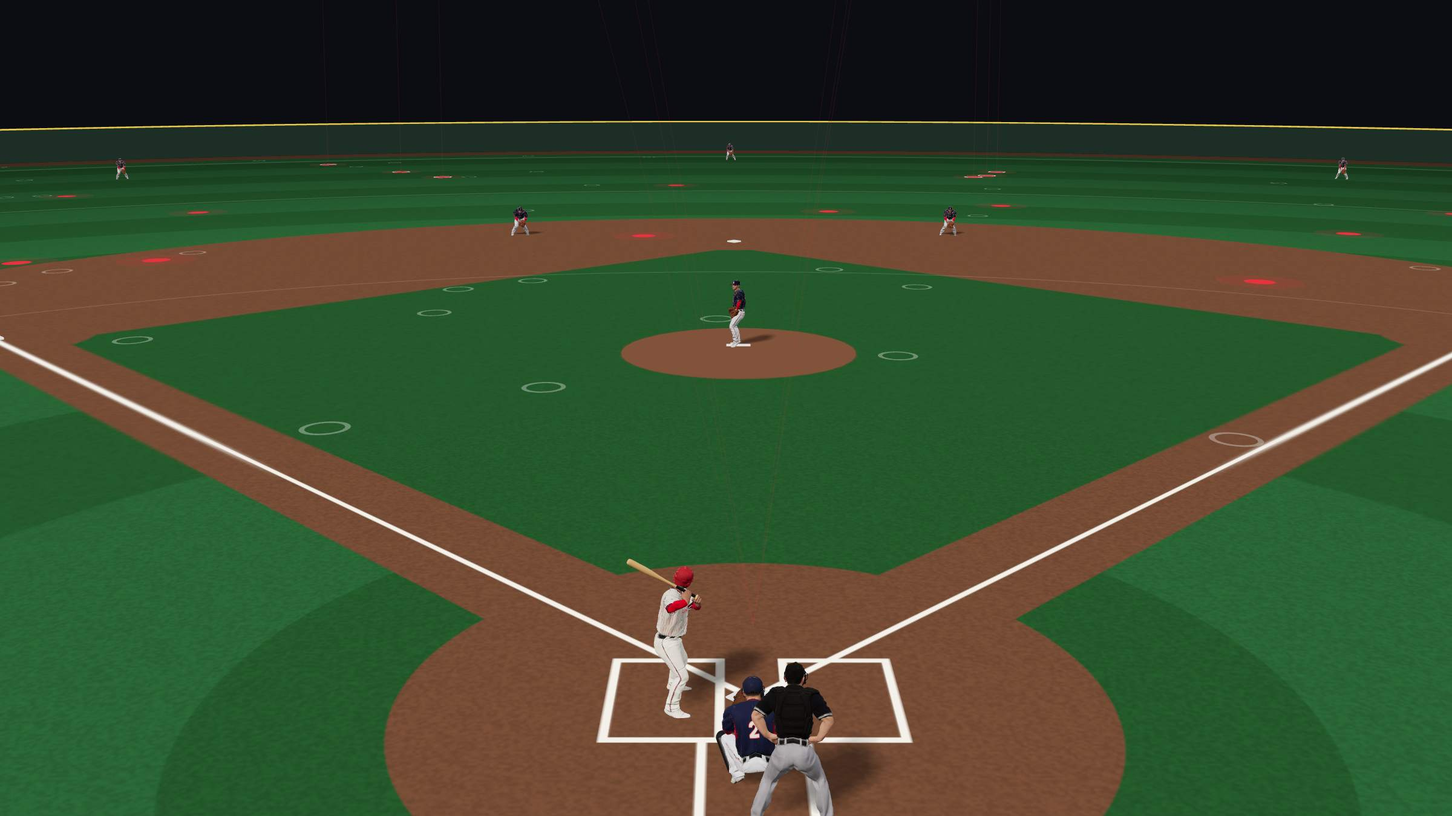
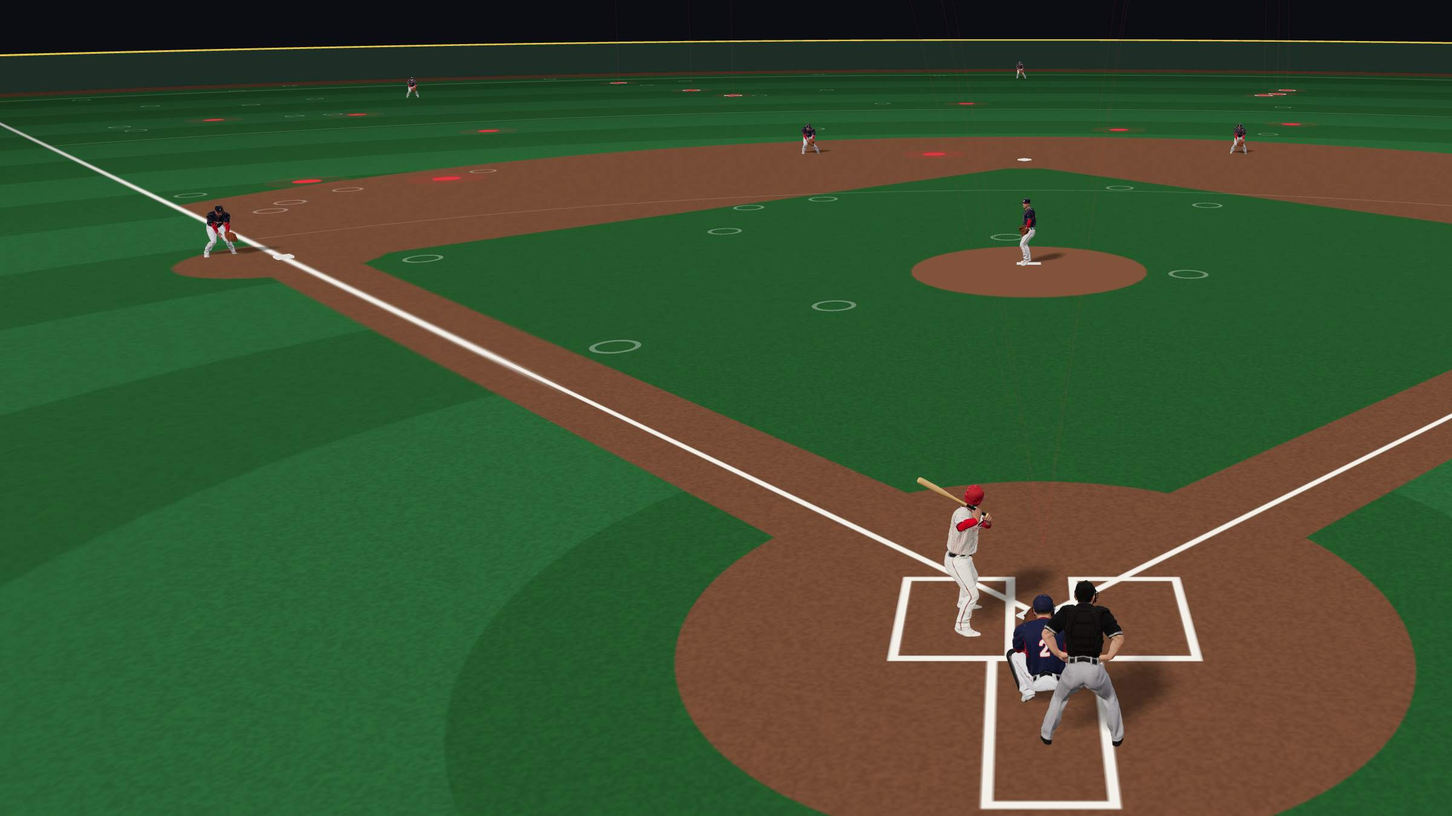
랜딩 디자인 다듬기: 첫 화면 선수를 글 밖으로, 숫자 띠 여백 버그, 필드 칸 정렬, 맨 아래 배경
- 첫 화면: 3D가 페이지 CSS의 --shift(렌즈 이동)·--zoom을 읽는다. 데스크톱은 홈 플레이트를
  글 오른쪽에 두고(--shift .2 .1) 숫자 카드를 글 아래 한 줄로. 폰·태블릿은 3D를 위쪽 띠로,
  글·버튼을 그 아래로(--zoom 1.3). 타자·포수·심판이 더 이상 제목·버튼·카드에 가리지 않는다.
- 숫자 띠: 칸 여백 규칙(.ticker div)이 감싸는 .wrap에도 걸려 양옆 여백이 0이던 버그.
- 필드 칸: 아래 라벨을 본문 칸에 맞추고, 폰에서 설명과 필드 사이 빈 공간을 줄임.
- 맨 아래 배경: 선수가 잘리지 않게 위치·그림자 조정, 폰은 선수를 버튼 아래로.
- 코스별 타율 칸에 안타/타수(15타석 샘플이라 .000·1.000이 많은 이유), QR 태그 2×2,
  한글 라벨의 넓은 자간 정리.
- 정지 그림 4장 재촬영. 정지 그림↔3D 첫 프레임 평균 픽셀차 데스크톱 1.2, 폰 1.1. ?v=3.

diff --git a/landing.html b/landing.html
@@ -62,24 +62,27 @@
   /* the element sets position / width / height / aspect-ratio inline, so these win with !important */
   .hero spray-play, .live spray-play { position: absolute !important; left: 0; right: 0; top: 0; bottom: 0; width: auto !important; height: auto !important; min-height: 0 !important; aspect-ratio: auto !important; }
   .hero spray-play > div { display: none !important; }                       /* its own labels: the hero has its own */
-  .live spray-play { left: 32px; right: 32px; top: 200px; bottom: 48px; }   /* the field starts under the heading */
+  .live spray-play { left: max(32px, calc((100% - var(--max)) / 2 + 32px)); right: max(32px, calc((100% - var(--max)) / 2 + 32px)); top: 200px; bottom: 48px; }   /* under the heading, in the content column */
   .live spray-play > div { color: #fff !important; font-size: 14px !important; }   /* phase · live counter · landing tag, in white */
   .hero .shade, .live .shade { pointer-events: none; }
   .hero .wrap > div, .live .wrap > * { pointer-events: none; } .hero .wrap a, .live .wrap a { pointer-events: auto; }
-  .hero .shade { position: absolute; inset: 0; background: linear-gradient(90deg, rgba(11,13,18,.92) 0%, rgba(11,13,18,.72) 38%, rgba(11,13,18,.15) 70%, rgba(11,13,18,.05) 100%), linear-gradient(180deg, rgba(11,13,18,.3) 0%, transparent 30%, rgba(11,13,18,.9) 100%); }
-  .hero .wrap { position: relative; width: 100%; padding-bottom: 72px; display: grid; grid-template-columns: minmax(0, 640px) 1fr; align-items: end; gap: 40px; }
+  .hero spray-play { --shift: .2 .1; }                                          /* lens shift: home plate to the right of the text, feet above the fold */
+  .hero .shade { position: absolute; inset: 0; background: linear-gradient(90deg, rgba(11,13,18,.92) 0%, rgba(11,13,18,.7) 36%, rgba(11,13,18,.1) 58%, transparent 72%), linear-gradient(180deg, rgba(11,13,18,.3) 0%, transparent 28%, transparent 62%, rgba(11,13,18,.85) 100%); }
+  .hero .wrap { position: relative; width: 100%; padding-bottom: 64px; }
+  .hero .wrap > div { max-width: 640px; }
   h1 { margin-top: 14px; font-size: 72px; line-height: 1.04; letter-spacing: -.04em; font-weight: 800; }
   .lead { margin-top: 20px; font-size: 18px; color: var(--fg-2); max-width: 30em; }
   .cta { margin-top: 30px; display: flex; gap: 12px; align-items: center; flex-wrap: wrap; } .cta small { margin-left: 8px; font-size: 13px; color: var(--fg-3); }
-  .chips { position: relative; display: flex; flex-direction: column; gap: 12px; align-items: flex-end; }
-  .chip { padding: 14px 18px; border-radius: 10px; background: rgba(255,255,255,.1); border: 1px solid var(--line); backdrop-filter: blur(16px); min-width: 190px; }
-  .chip span { display: block; font-size: 11px; font-weight: 800; letter-spacing: .14em; color: var(--fg-3); } .chip b { display: block; margin-top: 2px; font-size: 34px; font-weight: 800; line-height: 1; } .chip b em { font-style: normal; color: var(--red-2); }
+  .chips { margin-top: 32px; display: flex; gap: 10px; }
+  .chip { flex: 1 1 0; min-width: 0; padding: 12px 16px; border-radius: 8px; background: rgba(255,255,255,.07); border: 1px solid var(--line); backdrop-filter: blur(16px); }
+  .chip:last-child { flex-grow: 1.5; }
+  .chip span { display: block; font-size: 11px; font-weight: 800; letter-spacing: .14em; color: var(--fg-3); white-space: nowrap; } .chip b { display: block; margin-top: 4px; font-size: 26px; font-weight: 800; line-height: 1; white-space: nowrap; } .chip b em { font-style: normal; color: var(--red-2); }
   .bar { margin-top: 8px; height: 6px; border-radius: 3px; display: flex; overflow: hidden; background: rgba(255,255,255,.14); } .bar i { display: block; height: 100%; }
 
   /* ticker */
   .ticker { border-top: 1px solid var(--line); border-bottom: 1px solid var(--line); background: var(--ink); }
   .ticker .wrap { display: grid; grid-template-columns: repeat(4, 1fr); }
-  .ticker div { padding: 26px 24px 26px 0; border-right: 1px solid var(--line); } .ticker div + div { padding-left: 24px; } .ticker div:last-child { border-right: 0; }
+  .ticker .wrap > div { padding: 26px 24px 26px 0; border-right: 1px solid var(--line); } .ticker .wrap > div + div { padding-left: 24px; } .ticker .wrap > div:last-child { border-right: 0; }
   .ticker b { display: block; font-size: 24px; font-weight: 800; } .ticker span { display: block; margin-top: 4px; font-size: 13px; color: var(--fg-3); }
 
   /* sections */
@@ -92,7 +95,7 @@
   /* how */
   .trio { margin-top: 56px; display: grid; grid-template-columns: repeat(3, 1fr); gap: 24px; }
   .card { background: var(--paper-2); border: 1px solid var(--pl); border-radius: var(--r); padding: 28px 28px 0; overflow: hidden; display: flex; flex-direction: column; }
-  .card .n { font-size: 12px; font-weight: 800; letter-spacing: .2em; color: var(--red); }
+  .card .n { font-size: 13px; font-weight: 800; letter-spacing: .04em; color: var(--red); }
   .card h3 { margin-top: 10px; font-size: 24px; font-weight: 800; letter-spacing: -.02em; }
   .card p { margin-top: 8px; font-size: 15px; color: var(--pf-2); min-height: 3.2em; }
   .phone { margin: 24px auto -44px; width: 262px; padding: 10px; border-radius: 36px; background: #0B0D12; box-shadow: 0 30px 50px -20px rgba(11,13,18,.5); }
@@ -129,20 +132,21 @@
   .panel .ft { padding: 12px 24px; font-size: 12px; color: var(--fg-3); background: var(--ink-3); }
   .dirbar { padding: 24px; } .dirbar .bar { height: 14px; border-radius: 0; background: rgba(255,255,255,.1); }
   .dirbar .lbl { display: flex; justify-content: space-between; margin-top: 12px; font-size: 14px; color: var(--fg-2); } .dirbar .lbl b { font-size: 18px; font-weight: 800; color: #fff; margin-right: 4px; }
-  .dirbar .cap { margin-top: 12px; font-size: 12px; letter-spacing: .1em; font-weight: 700; color: var(--fg-3); }
+  .dirbar .cap { margin-top: 12px; font-size: 12px; letter-spacing: .02em; font-weight: 700; color: var(--fg-3); }
   .zone { display: grid; grid-template-columns: repeat(3, 1fr); gap: 6px; padding: 0 24px 24px; }
-  .zone div { aspect-ratio: 1.5; border-radius: 4px; display: grid; place-items: center; font-weight: 800; font-size: 15px; background: rgba(255,255,255,.06); color: var(--fg-2); }
+  .zone div { aspect-ratio: 1.5; border-radius: 4px; display: flex; flex-direction: column; align-items: center; justify-content: center; gap: 2px; font-weight: 800; font-size: 15px; background: rgba(255,255,255,.06); color: var(--fg-2); }
+  .zone small { font-size: 11px; font-weight: 600; opacity: .72; font-variant-numeric: tabular-nums; }
   .zone .h1 { background: rgba(224,52,63,.35); color: #fff; } .zone .h2 { background: rgba(224,52,63,.6); color: #fff; } .zone .h3 { background: var(--red); color: #fff; }
   .share { display: grid; grid-template-columns: 200px 1fr; gap: 28px; align-items: center; padding: 28px; }
   .share .qr { padding: 14px; background: #fff; border-radius: 6px; }
   .share h4 { font-size: 22px; font-weight: 800; line-height: 1.3; } .share p { margin-top: 8px; font-size: 14px; color: var(--fg-2); }
-  .share .tags { margin-top: 14px; display: flex; flex-wrap: wrap; gap: 8px; } .share .tags span { padding: 6px 10px; border-radius: 4px; border: 1px solid var(--line); font-size: 12px; font-weight: 700; color: var(--fg-2); }
+  .share .tags { margin-top: 14px; display: grid; grid-template-columns: repeat(2, max-content); justify-items: start; gap: 8px; } .share .tags span { padding: 6px 10px; border-radius: 4px; border: 1px solid var(--line); font-size: 12px; font-weight: 700; color: var(--fg-2); }
 
   /* compare (light) */
   .table { margin-top: 48px; border: 1px solid var(--pl); background: var(--paper-2); border-radius: var(--r); overflow: hidden; }
   .row { display: grid; grid-template-columns: 1.1fr 1fr 1.3fr; }
   .row > div { padding: 20px 24px; font-size: 16px; border-top: 1px solid var(--pl); }
-  .row.hd > div { border-top: 0; background: var(--paper); font-size: 12px; font-weight: 800; letter-spacing: .14em; color: var(--pf-3); }
+  .row.hd > div { border-top: 0; background: var(--paper); font-size: 13px; font-weight: 800; letter-spacing: .02em; color: var(--pf-3); }
   .row > div:first-child { color: var(--pf-3); font-weight: 500; }
   .row > div:last-child { font-weight: 700; background: #FFF5F5; }
   .row.hd > div:last-child { color: var(--red); }
@@ -151,8 +155,8 @@
 
   /* cta */
   .cta-band { position: relative; overflow: hidden; min-height: 620px; display: flex; align-items: center; text-align: center; }
-  .cta-band .bg { position: absolute; inset: 0; background: url(assets/landing/img/cta_bg.jpg) center 40% / cover no-repeat; }
-  .cta-band .shade { position: absolute; inset: 0; background: radial-gradient(ellipse at 50% 60%, rgba(11,13,18,.55) 0%, rgba(11,13,18,.9) 70%); }
+  .cta-band .bg { position: absolute; inset: 0; background: url(assets/landing/img/cta_bg.jpg) center 78% / cover no-repeat; }   /* low enough that the catcher and umpire keep their feet */
+  .cta-band .shade { position: absolute; inset: 0; background: radial-gradient(ellipse at 50% 45%, rgba(11,13,18,.6) 0%, rgba(11,13,18,.82) 75%); }
   .cta-band .wrap { position: relative; }
   .cta-band h2 { font-size: 56px; } .cta-band .sub { margin: 16px auto 0; }
   .cta-band .btns { margin-top: 36px; display: flex; justify-content: center; gap: 12px; }
@@ -163,21 +167,26 @@
   @media (max-width: 1023px) {
     .wrap { padding: 0 20px; }
     .menu { display: none; }
-    .hero { min-height: 700px; max-height: none; height: auto; padding-top: 110px; }
+    .hero { --band: clamp(340px, 54vh, 480px); min-height: 0; max-height: none; height: auto; display: block; }
+    .hero .bg, .hero spray-play, .hero .shade { bottom: auto !important; height: var(--band) !important; }
     .hero .bg { background-image: url(assets/landing/img/hero_close_m.jpg); }
-    .hero .wrap { grid-template-columns: 1fr; padding-bottom: 36px; gap: 24px; }
+    .hero spray-play { --zoom: 1.3; --shift: 0 .24; }
+    .hero .shade { background: linear-gradient(180deg, rgba(11,13,18,.55) 0%, transparent 22%, transparent 72%, var(--ink) 100%); }
+    .hero .wrap { padding-top: calc(var(--band) - 28px); padding-bottom: 40px; }
     h1 { font-size: 42px; } .lead { font-size: 16px; }
-    .chips { flex-direction: row; flex-wrap: wrap; align-items: stretch; } .chip { min-width: 0; flex: 1 1 44%; padding: 12px 14px; } .chip b { font-size: 24px; }
-    .ticker .wrap { grid-template-columns: repeat(2, minmax(0, 1fr)); column-gap: 20px; } .ticker div { border-right: 0; padding: 20px 0 !important; min-width: 0; } .ticker b { font-size: 17px; }
+    .chips { flex-wrap: wrap; margin-top: 28px; } .chip { flex: 1 1 40%; padding: 12px 14px; } .chip:last-child { flex-basis: 100%; } .chip b { font-size: 24px; }
+    .ticker .wrap { grid-template-columns: repeat(2, minmax(0, 1fr)); column-gap: 20px; } .ticker .wrap > div { border-right: 0; padding: 20px 0 !important; min-width: 0; } .ticker b { font-size: 17px; }
     .sec { padding: 72px 0; } h2 { font-size: 30px; } .sub { font-size: 16px; }
     .head { grid-template-columns: 1fr; gap: 12px; } .head .right { justify-self: start; text-align: left; }
     .trio { grid-template-columns: 1fr; gap: 20px; } .phone { width: 240px; }
-    .live .wrap { min-height: 760px; padding-top: 72px; } .live spray-play { left: 12px; right: 12px; top: 330px; bottom: 40px; }
+    .live .wrap { min-height: 660px; padding-top: 72px; } .live spray-play { --shift: 0 .14; left: 20px; right: 20px; top: 270px; bottom: 32px; }
     .feat { grid-template-columns: 1fr; gap: 28px; padding: 44px 0; } .feat.rev > :first-child { order: 0; } .feat h3 { font-size: 28px; } .grid6 b { font-size: 26px; }
     .share { grid-template-columns: 1fr; } .share .qr { width: 180px; }
     .row { grid-template-columns: 1fr 1fr; } .row > div:first-child { grid-column: 1 / -1; padding-bottom: 0; font-size: 12px; }
     .row > div:nth-child(2), .row > div:nth-child(3) { border-top: 0; padding-top: 8px; } .row.hd > div:first-child { display: none; }
-    .cta-band { min-height: 520px; } .cta-band h2 { font-size: 34px; } .cta-band .btns { flex-direction: column; align-items: center; }
+    .cta-band { min-height: 640px; align-items: flex-start; padding-top: 64px; } .cta-band h2 { font-size: 34px; }
+    .cta-band .bg { background-position: 70% 100%; }   /* the players below the buttons */
+    .cta-band .shade { background: linear-gradient(180deg, rgba(11,13,18,.92) 0%, rgba(11,13,18,.72) 50%, rgba(11,13,18,.2) 100%); }
   }
 </style>
 </head>
@@ -199,11 +208,11 @@
       <h1>타석 하나 찍으면,<br>차트가 그려집니다</h1>
       <p class="lead">더그아웃에서 공이 떨어진 자리를 탭하세요. 스프레이차트와 타율·OPS·방향 분포가 그 자리에서 계산되고, QR 하나로 팀 전체가 봅니다.</p>
       <div class="cta"><a class="btn btn-red" href="https://kimjeongcheol13.github.io/baseball-spray-chart/">무료로 시작하기</a><a class="btn btn-ghost" href="#how">어떻게 쓰나요</a><small>가입 없음 · 설치 없음</small></div>
-    </div>
     <div class="chips">
       <div class="chip"><span>Season AVG</span><b class="num">.333</b></div>
       <div class="chip"><span>OPS</span><b class="num">1.050</b></div>
       <div class="chip"><span>Pull · Center · Oppo</span><b class="num"><em>36</em> · 36 · 27%</b><div class="bar"><i style="width:36%;background:var(--red)"></i><i style="width:36%;background:#fff"></i><i style="flex:1;background:rgba(255,255,255,.3)"></i></div></div>
+    </div>
     </div>
   </div>
 </section>
@@ -262,9 +271,9 @@
       <div class="dirbar">
         <div class="bar"><i style="width:36%;background:var(--red)"></i><i style="width:36%;background:#fff"></i><i style="flex:1;background:rgba(255,255,255,.3)"></i></div>
         <div class="lbl"><span><b class="num">36%</b>당겨치기</span><span><b class="num">36%</b>센터</span><span><b class="num">27%</b>밀어치기</span></div>
-        <div class="cap">코스별 타율 · 내각 / 중앙 / 외각</div>
+        <div class="cap">코스별 타율 · 내각 / 중앙 / 외각 · 아래는 안타/타수</div>
       </div>
-      <div class="zone"><div>—</div><div class="h1">.250</div><div class="h3">1.000</div><div class="h3">1.000</div><div>.000</div><div>.000</div><div class="h2">.333</div><div>.000</div><div>—</div></div>
+      <div class="zone"><div><b>—</b><small>0/0</small></div><div class="h1"><b>.250</b><small>1/4</small></div><div class="h3"><b>1.000</b><small>1/1</small></div><div class="h3"><b>1.000</b><small>1/1</small></div><div><b>.000</b><small>0/1</small></div><div><b>.000</b><small>0/1</small></div><div class="h2"><b>.333</b><small>1/3</small></div><div><b>.000</b><small>0/1</small></div><div><b>—</b><small>0/0</small></div></div>
     </div>
   </div>
 
@@ -310,7 +319,7 @@
 </div></footer>
 
 <script>(function () { var m = {"three.module": "js/landing/vendor/three.module.js", "three.core": "js/landing/vendor/three.core.js", "GLTFLoader": "js/landing/vendor/GLTFLoader.js", "BufferGeometryUtils": "js/landing/vendor/BufferGeometryUtils.js", "SkeletonUtils": "js/landing/vendor/SkeletonUtils.js", "player.glb": "assets/landing/player.glb", "player_helmet2.glb": "assets/landing/player_helmet2.glb", "player_cap.glb": "assets/landing/player_cap.glb", "player_cap2.glb": "assets/landing/player_cap2.glb", "player_cap3.glb": "assets/landing/player_cap3.glb", "player_ump.glb": "assets/landing/player_ump.glb", "glove.glb": "assets/landing/glove.glb", "mitt.glb": "assets/landing/mitt.glb", "mask.glb": "assets/landing/mask.glb", "clips_shared.json": "assets/landing/clips_shared.json"}, r = {}; for (var k in m) r[k] = new URL(m[k], location.href).href; window.__resources = r; })();</script>
-<script src="js/landing/spray-play.js?v=2"></script>
+<script src="js/landing/spray-play.js?v=3"></script>
 <script>
 (function () {
   var h = document.querySelector('.hero'), p = document.getElementById('hero3d'), n = 0;

diff --git a/design/landing-3d/next/landing.src.html b/design/landing-3d/next/landing.src.html
@@ -62,24 +62,27 @@
   /* the element sets position / width / height / aspect-ratio inline, so these win with !important */
   .hero spray-play, .live spray-play { position: absolute !important; left: 0; right: 0; top: 0; bottom: 0; width: auto !important; height: auto !important; min-height: 0 !important; aspect-ratio: auto !important; }
   .hero spray-play > div { display: none !important; }                       /* its own labels: the hero has its own */
-  .live spray-play { left: 32px; right: 32px; top: 200px; bottom: 48px; }   /* the field starts under the heading */
+  .live spray-play { left: max(32px, calc((100% - var(--max)) / 2 + 32px)); right: max(32px, calc((100% - var(--max)) / 2 + 32px)); top: 200px; bottom: 48px; }   /* under the heading, in the content column */
   .live spray-play > div { color: #fff !important; font-size: 14px !important; }   /* phase · live counter · landing tag, in white */
   .hero .shade, .live .shade { pointer-events: none; }
   .hero .wrap > div, .live .wrap > * { pointer-events: none; } .hero .wrap a, .live .wrap a { pointer-events: auto; }
-  .hero .shade { position: absolute; inset: 0; background: linear-gradient(90deg, rgba(11,13,18,.92) 0%, rgba(11,13,18,.72) 38%, rgba(11,13,18,.15) 70%, rgba(11,13,18,.05) 100%), linear-gradient(180deg, rgba(11,13,18,.3) 0%, transparent 30%, rgba(11,13,18,.9) 100%); }
-  .hero .wrap { position: relative; width: 100%; padding-bottom: 72px; display: grid; grid-template-columns: minmax(0, 640px) 1fr; align-items: end; gap: 40px; }
+  .hero spray-play { --shift: .2 .1; }                                          /* lens shift: home plate to the right of the text, feet above the fold */
+  .hero .shade { position: absolute; inset: 0; background: linear-gradient(90deg, rgba(11,13,18,.92) 0%, rgba(11,13,18,.7) 36%, rgba(11,13,18,.1) 58%, transparent 72%), linear-gradient(180deg, rgba(11,13,18,.3) 0%, transparent 28%, transparent 62%, rgba(11,13,18,.85) 100%); }
+  .hero .wrap { position: relative; width: 100%; padding-bottom: 64px; }
+  .hero .wrap > div { max-width: 640px; }
   h1 { margin-top: 14px; font-size: 72px; line-height: 1.04; letter-spacing: -.04em; font-weight: 800; }
   .lead { margin-top: 20px; font-size: 18px; color: var(--fg-2); max-width: 30em; }
   .cta { margin-top: 30px; display: flex; gap: 12px; align-items: center; flex-wrap: wrap; } .cta small { margin-left: 8px; font-size: 13px; color: var(--fg-3); }
-  .chips { position: relative; display: flex; flex-direction: column; gap: 12px; align-items: flex-end; }
-  .chip { padding: 14px 18px; border-radius: 10px; background: rgba(255,255,255,.1); border: 1px solid var(--line); backdrop-filter: blur(16px); min-width: 190px; }
-  .chip span { display: block; font-size: 11px; font-weight: 800; letter-spacing: .14em; color: var(--fg-3); } .chip b { display: block; margin-top: 2px; font-size: 34px; font-weight: 800; line-height: 1; } .chip b em { font-style: normal; color: var(--red-2); }
+  .chips { margin-top: 32px; display: flex; gap: 10px; }
+  .chip { flex: 1 1 0; min-width: 0; padding: 12px 16px; border-radius: 8px; background: rgba(255,255,255,.07); border: 1px solid var(--line); backdrop-filter: blur(16px); }
+  .chip:last-child { flex-grow: 1.5; }
+  .chip span { display: block; font-size: 11px; font-weight: 800; letter-spacing: .14em; color: var(--fg-3); white-space: nowrap; } .chip b { display: block; margin-top: 4px; font-size: 26px; font-weight: 800; line-height: 1; white-space: nowrap; } .chip b em { font-style: normal; color: var(--red-2); }
   .bar { margin-top: 8px; height: 6px; border-radius: 3px; display: flex; overflow: hidden; background: rgba(255,255,255,.14); } .bar i { display: block; height: 100%; }
 
   /* ticker */
   .ticker { border-top: 1px solid var(--line); border-bottom: 1px solid var(--line); background: var(--ink); }
   .ticker .wrap { display: grid; grid-template-columns: repeat(4, 1fr); }
-  .ticker div { padding: 26px 24px 26px 0; border-right: 1px solid var(--line); } .ticker div + div { padding-left: 24px; } .ticker div:last-child { border-right: 0; }
+  .ticker .wrap > div { padding: 26px 24px 26px 0; border-right: 1px solid var(--line); } .ticker .wrap > div + div { padding-left: 24px; } .ticker .wrap > div:last-child { border-right: 0; }
   .ticker b { display: block; font-size: 24px; font-weight: 800; } .ticker span { display: block; margin-top: 4px; font-size: 13px; color: var(--fg-3); }
 
   /* sections */
@@ -92,7 +95,7 @@
   /* how */
   .trio { margin-top: 56px; display: grid; grid-template-columns: repeat(3, 1fr); gap: 24px; }
   .card { background: var(--paper-2); border: 1px solid var(--pl); border-radius: var(--r); padding: 28px 28px 0; overflow: hidden; display: flex; flex-direction: column; }
-  .card .n { font-size: 12px; font-weight: 800; letter-spacing: .2em; color: var(--red); }
+  .card .n { font-size: 13px; font-weight: 800; letter-spacing: .04em; color: var(--red); }
   .card h3 { margin-top: 10px; font-size: 24px; font-weight: 800; letter-spacing: -.02em; }
   .card p { margin-top: 8px; font-size: 15px; color: var(--pf-2); min-height: 3.2em; }
   .phone { margin: 24px auto -44px; width: 262px; padding: 10px; border-radius: 36px; background: #0B0D12; box-shadow: 0 30px 50px -20px rgba(11,13,18,.5); }
@@ -129,20 +132,21 @@
   .panel .ft { padding: 12px 24px; font-size: 12px; color: var(--fg-3); background: var(--ink-3); }
   .dirbar { padding: 24px; } .dirbar .bar { height: 14px; border-radius: 0; background: rgba(255,255,255,.1); }
   .dirbar .lbl { display: flex; justify-content: space-between; margin-top: 12px; font-size: 14px; color: var(--fg-2); } .dirbar .lbl b { font-size: 18px; font-weight: 800; color: #fff; margin-right: 4px; }
-  .dirbar .cap { margin-top: 12px; font-size: 12px; letter-spacing: .1em; font-weight: 700; color: var(--fg-3); }
+  .dirbar .cap { margin-top: 12px; font-size: 12px; letter-spacing: .02em; font-weight: 700; color: var(--fg-3); }
   .zone { display: grid; grid-template-columns: repeat(3, 1fr); gap: 6px; padding: 0 24px 24px; }
-  .zone div { aspect-ratio: 1.5; border-radius: 4px; display: grid; place-items: center; font-weight: 800; font-size: 15px; background: rgba(255,255,255,.06); color: var(--fg-2); }
+  .zone div { aspect-ratio: 1.5; border-radius: 4px; display: flex; flex-direction: column; align-items: center; justify-content: center; gap: 2px; font-weight: 800; font-size: 15px; background: rgba(255,255,255,.06); color: var(--fg-2); }
+  .zone small { font-size: 11px; font-weight: 600; opacity: .72; font-variant-numeric: tabular-nums; }
   .zone .h1 { background: rgba(224,52,63,.35); color: #fff; } .zone .h2 { background: rgba(224,52,63,.6); color: #fff; } .zone .h3 { background: var(--red); color: #fff; }
   .share { display: grid; grid-template-columns: 200px 1fr; gap: 28px; align-items: center; padding: 28px; }
   .share .qr { padding: 14px; background: #fff; border-radius: 6px; }
   .share h4 { font-size: 22px; font-weight: 800; line-height: 1.3; } .share p { margin-top: 8px; font-size: 14px; color: var(--fg-2); }
-  .share .tags { margin-top: 14px; display: flex; flex-wrap: wrap; gap: 8px; } .share .tags span { padding: 6px 10px; border-radius: 4px; border: 1px solid var(--line); font-size: 12px; font-weight: 700; color: var(--fg-2); }
+  .share .tags { margin-top: 14px; display: grid; grid-template-columns: repeat(2, max-content); justify-items: start; gap: 8px; } .share .tags span { padding: 6px 10px; border-radius: 4px; border: 1px solid var(--line); font-size: 12px; font-weight: 700; color: var(--fg-2); }
 
   /* compare (light) */
   .table { margin-top: 48px; border: 1px solid var(--pl); background: var(--paper-2); border-radius: var(--r); overflow: hidden; }
   .row { display: grid; grid-template-columns: 1.1fr 1fr 1.3fr; }
   .row > div { padding: 20px 24px; font-size: 16px; border-top: 1px solid var(--pl); }
-  .row.hd > div { border-top: 0; background: var(--paper); font-size: 12px; font-weight: 800; letter-spacing: .14em; color: var(--pf-3); }
+  .row.hd > div { border-top: 0; background: var(--paper); font-size: 13px; font-weight: 800; letter-spacing: .02em; color: var(--pf-3); }
   .row > div:first-child { color: var(--pf-3); font-weight: 500; }
   .row > div:last-child { font-weight: 700; background: #FFF5F5; }
   .row.hd > div:last-child { color: var(--red); }
@@ -151,8 +155,8 @@
 
   /* cta */
   .cta-band { position: relative; overflow: hidden; min-height: 620px; display: flex; align-items: center; text-align: center; }
-  .cta-band .bg { position: absolute; inset: 0; background: url(assets/landing/img/cta_bg.jpg) center 40% / cover no-repeat; }
-  .cta-band .shade { position: absolute; inset: 0; background: radial-gradient(ellipse at 50% 60%, rgba(11,13,18,.55) 0%, rgba(11,13,18,.9) 70%); }
+  .cta-band .bg { position: absolute; inset: 0; background: url(assets/landing/img/cta_bg.jpg) center 78% / cover no-repeat; }   /* low enough that the catcher and umpire keep their feet */
+  .cta-band .shade { position: absolute; inset: 0; background: radial-gradient(ellipse at 50% 45%, rgba(11,13,18,.6) 0%, rgba(11,13,18,.82) 75%); }
   .cta-band .wrap { position: relative; }
   .cta-band h2 { font-size: 56px; } .cta-band .sub { margin: 16px auto 0; }
   .cta-band .btns { margin-top: 36px; display: flex; justify-content: center; gap: 12px; }
@@ -163,21 +167,26 @@
   @media (max-width: 1023px) {
     .wrap { padding: 0 20px; }
     .menu { display: none; }
-    .hero { min-height: 700px; max-height: none; height: auto; padding-top: 110px; }
+    .hero { --band: clamp(340px, 54vh, 480px); min-height: 0; max-height: none; height: auto; display: block; }
+    .hero .bg, .hero spray-play, .hero .shade { bottom: auto !important; height: var(--band) !important; }
     .hero .bg { background-image: url(assets/landing/img/hero_close_m.jpg); }
-    .hero .wrap { grid-template-columns: 1fr; padding-bottom: 36px; gap: 24px; }
+    .hero spray-play { --zoom: 1.3; --shift: 0 .24; }
+    .hero .shade { background: linear-gradient(180deg, rgba(11,13,18,.55) 0%, transparent 22%, transparent 72%, var(--ink) 100%); }
+    .hero .wrap { padding-top: calc(var(--band) - 28px); padding-bottom: 40px; }
     h1 { font-size: 42px; } .lead { font-size: 16px; }
-    .chips { flex-direction: row; flex-wrap: wrap; align-items: stretch; } .chip { min-width: 0; flex: 1 1 44%; padding: 12px 14px; } .chip b { font-size: 24px; }
-    .ticker .wrap { grid-template-columns: repeat(2, minmax(0, 1fr)); column-gap: 20px; } .ticker div { border-right: 0; padding: 20px 0 !important; min-width: 0; } .ticker b { font-size: 17px; }
+    .chips { flex-wrap: wrap; margin-top: 28px; } .chip { flex: 1 1 40%; padding: 12px 14px; } .chip:last-child { flex-basis: 100%; } .chip b { font-size: 24px; }
+    .ticker .wrap { grid-template-columns: repeat(2, minmax(0, 1fr)); column-gap: 20px; } .ticker .wrap > div { border-right: 0; padding: 20px 0 !important; min-width: 0; } .ticker b { font-size: 17px; }
     .sec { padding: 72px 0; } h2 { font-size: 30px; } .sub { font-size: 16px; }
     .head { grid-template-columns: 1fr; gap: 12px; } .head .right { justify-self: start; text-align: left; }
     .trio { grid-template-columns: 1fr; gap: 20px; } .phone { width: 240px; }
-    .live .wrap { min-height: 760px; padding-top: 72px; } .live spray-play { left: 12px; right: 12px; top: 330px; bottom: 40px; }
+    .live .wrap { min-height: 660px; padding-top: 72px; } .live spray-play { --shift: 0 .14; left: 20px; right: 20px; top: 270px; bottom: 32px; }
     .feat { grid-template-columns: 1fr; gap: 28px; padding: 44px 0; } .feat.rev > :first-child { order: 0; } .feat h3 { font-size: 28px; } .grid6 b { font-size: 26px; }
     .share { grid-template-columns: 1fr; } .share .qr { width: 180px; }
     .row { grid-template-columns: 1fr 1fr; } .row > div:first-child { grid-column: 1 / -1; padding-bottom: 0; font-size: 12px; }
     .row > div:nth-child(2), .row > div:nth-child(3) { border-top: 0; padding-top: 8px; } .row.hd > div:first-child { display: none; }
-    .cta-band { min-height: 520px; } .cta-band h2 { font-size: 34px; } .cta-band .btns { flex-direction: column; align-items: center; }
+    .cta-band { min-height: 640px; align-items: flex-start; padding-top: 64px; } .cta-band h2 { font-size: 34px; }
+    .cta-band .bg { background-position: 70% 100%; }   /* the players below the buttons */
+    .cta-band .shade { background: linear-gradient(180deg, rgba(11,13,18,.92) 0%, rgba(11,13,18,.72) 50%, rgba(11,13,18,.2) 100%); }
   }
 </style>
 </head>
@@ -199,11 +208,11 @@
       <h1>타석 하나 찍으면,<br>차트가 그려집니다</h1>
       <p class="lead">더그아웃에서 공이 떨어진 자리를 탭하세요. 스프레이차트와 타율·OPS·방향 분포가 그 자리에서 계산되고, QR 하나로 팀 전체가 봅니다.</p>
       <div class="cta"><a class="btn btn-red" href="https://kimjeongcheol13.github.io/baseball-spray-chart/">무료로 시작하기</a><a class="btn btn-ghost" href="#how">어떻게 쓰나요</a><small>가입 없음 · 설치 없음</small></div>
-    </div>
     <div class="chips">
       <div class="chip"><span>Season AVG</span><b class="num">.333</b></div>
       <div class="chip"><span>OPS</span><b class="num">1.050</b></div>
       <div class="chip"><span>Pull · Center · Oppo</span><b class="num"><em>36</em> · 36 · 27%</b><div class="bar"><i style="width:36%;background:var(--red)"></i><i style="width:36%;background:#fff"></i><i style="flex:1;background:rgba(255,255,255,.3)"></i></div></div>
+    </div>
     </div>
   </div>
 </section>
@@ -262,9 +271,9 @@
       <div class="dirbar">
         <div class="bar"><i style="width:36%;background:var(--red)"></i><i style="width:36%;background:#fff"></i><i style="flex:1;background:rgba(255,255,255,.3)"></i></div>
         <div class="lbl"><span><b class="num">36%</b>당겨치기</span><span><b class="num">36%</b>센터</span><span><b class="num">27%</b>밀어치기</span></div>
-        <div class="cap">코스별 타율 · 내각 / 중앙 / 외각</div>
+        <div class="cap">코스별 타율 · 내각 / 중앙 / 외각 · 아래는 안타/타수</div>
       </div>
-      <div class="zone"><div>—</div><div class="h1">.250</div><div class="h3">1.000</div><div class="h3">1.000</div><div>.000</div><div>.000</div><div class="h2">.333</div><div>.000</div><div>—</div></div>
+      <div class="zone"><div><b>—</b><small>0/0</small></div><div class="h1"><b>.250</b><small>1/4</small></div><div class="h3"><b>1.000</b><small>1/1</small></div><div class="h3"><b>1.000</b><small>1/1</small></div><div><b>.000</b><small>0/1</small></div><div><b>.000</b><small>0/1</small></div><div class="h2"><b>.333</b><small>1/3</small></div><div><b>.000</b><small>0/1</small></div><div><b>—</b><small>0/0</small></div></div>
     </div>
   </div>
 

diff --git a/design/landing-3d/src/spray-play.js b/design/landing-3d/src/spray-play.js
@@ -351,7 +351,14 @@
       this.rebuildDots();
       this.relPos = new THREE.Vector3(); this.tmp = new THREE.Vector3(); this.tmp2 = new THREE.Vector3(); this.camTarget = new THREE.Vector3();
 
-      const resize = () => { const w = this.clientWidth || 4, h = this.clientHeight || 3; renderer.setSize(w, h, false); this.camera.aspect = w / h; this.camera.updateProjectionMatrix(); };
+      const resize = () => {
+        const w = this.clientWidth || 4, h = this.clientHeight || 3; renderer.setSize(w, h, false); this.camera.aspect = w / h;
+        // framing from the page's CSS, per layout: `--zoom` (lens zoom) and `--shift: x y` (lens shift, fractions of the view; + moves the scene right / up)
+        const cs = getComputedStyle(this), [sx = 0, sy = 0] = cs.getPropertyValue('--shift').trim().split(/\s+/).map(Number);
+        this.camera.zoom = parseFloat(cs.getPropertyValue('--zoom')) || 1;
+        if (sx || sy) this.camera.setViewOffset(w, h, -sx * w, sy * h, w, h); else this.camera.clearViewOffset();
+        this.camera.updateProjectionMatrix();
+      };
       this.ro = new ResizeObserver(resize); this.ro.observe(this); resize();
       if ('IntersectionObserver' in window) { this.io = new IntersectionObserver(es => { this.visible = es[0].isIntersecting; }, { rootMargin: '200px' }); this.io.observe(this); }
       const loop = (t) => { this.raf = requestAnimationFrame(loop); if (this.visible) this.frame(t); };

diff --git a/js/landing/spray-play.js b/js/landing/spray-play.js
@@ -901,7 +901,14 @@
       this.rebuildDots();
       this.relPos = new THREE.Vector3(); this.tmp = new THREE.Vector3(); this.tmp2 = new THREE.Vector3(); this.camTarget = new THREE.Vector3();
 
-      const resize = () => { const w = this.clientWidth || 4, h = this.clientHeight || 3; renderer.setSize(w, h, false); this.camera.aspect = w / h; this.camera.updateProjectionMatrix(); };
+      const resize = () => {
+        const w = this.clientWidth || 4, h = this.clientHeight || 3; renderer.setSize(w, h, false); this.camera.aspect = w / h;
+        // framing from the page's CSS, per layout: `--zoom` (lens zoom) and `--shift: x y` (lens shift, fractions of the view; + moves the scene right / up)
+        const cs = getComputedStyle(this), [sx = 0, sy = 0] = cs.getPropertyValue('--shift').trim().split(/\s+/).map(Number);
+        this.camera.zoom = parseFloat(cs.getPropertyValue('--zoom')) || 1;
+        if (sx || sy) this.camera.setViewOffset(w, h, -sx * w, sy * h, w, h); else this.camera.clearViewOffset();
+        this.camera.updateProjectionMatrix();
+      };
       this.ro = new ResizeObserver(resize); this.ro.observe(this); resize();
       if ('IntersectionObserver' in window) { this.io = new IntersectionObserver(es => { this.visible = es[0].isIntersecting; }, { rootMargin: '200px' }); this.io.observe(this); }
       const loop = (t) => { this.raf = requestAnimationFrame(loop); if (this.visible) this.frame(t); };

diff --git a/design/landing-3d/tools/build_landing.py b/design/landing-3d/tools/build_landing.py
@@ -6,7 +6,7 @@
 import sys, os, json, base64, shutil
 HERE = os.path.dirname(os.path.abspath(__file__))
 D3 = os.path.join(HERE, '..'); ROOT = os.path.normpath(os.path.join(D3, '..', '..')); NEXT = os.path.join(D3, 'next')
-V = '2'   # ?v= of spray-play.js (bump when src/spray-play.js or src/glbfig.js changes)
+V = '3'   # ?v= of spray-play.js (bump when src/spray-play.js or src/glbfig.js changes)
 RES = {'three.module': 'js/landing/vendor/three.module.js', 'three.core': 'js/landing/vendor/three.core.js',
        'GLTFLoader': 'js/landing/vendor/GLTFLoader.js', 'BufferGeometryUtils': 'js/landing/vendor/BufferGeometryUtils.js', 'SkeletonUtils': 'js/landing/vendor/SkeletonUtils.js',
        **{n + '.glb': 'assets/landing/' + n + '.glb' for n in ('player', 'player_helmet2', 'player_cap', 'player_cap2', 'player_cap3', 'player_ump', 'glove', 'mitt', 'mask')},

diff --git a/design/landing-3d/README.md b/design/landing-3d/README.md
@@ -21,11 +21,14 @@ python tools/build_landing.py --single SprayLab_Landing.page.html   # 전부 인
 - 숫자는 전부 샘플 선수 김민준(#8, 15타석)의 것이다(.333 / .467 / .583 · OPS 1.050 · wOBA .451 · ISO .250 · 당김 36 / 센터 36 / 밀어 27%). 3D의 카운터만 "이번 경기".
 - 3D 요소는 인라인 스타일로 자기 크기를 정하므로 페이지 CSS가 `!important`로 absolute·inset을 덮어쓴다. 첫 화면에서는 요소의 자체 라벨(투구·타격·기록, 카운터)을 숨기고, "필드" 칸에서는 흰색으로 보여 준다.
 - 공유 미리보기: head의 `og:`·`twitter:` 메타와 `img/og.jpg`(1200×630, 첫 화면을 그대로 찍은 것), 파비콘 `img/icon-32/192.png`(앱의 player-logo). 상단 바는 fixed이고 40px 넘게 내리면 `.nav.scrolled`(반투명+블러, 60px)로 바뀐다.
-- 정지 그림 4장(`hero_close.jpg` 2732×1536 데스크톱 첫 화면, `hero_close_m.jpg` 750×1400 폰 첫 화면, `cta_bg.jpg` 2400×1350, `og.jpg` 1200×630 글 포함)은 `tools/shoot_stills.py`가 헤드리스 Chromium(Playwright)으로 3D의 첫 프레임(tau 0.05, 카메라 흔들림 0)을 찍어 `#0B0D12` 위에 합성한 것이라 페이드 때 장면이 이어진다. 필드나 카메라를 바꾸면 다시 돌린다(`--check`를 붙이면 정지 그림과 3D 첫 프레임의 평균 픽셀차를 찍어 준다 — 2026-10-17 기준 데스크톱 0.9, 폰 1.1).
+- 정지 그림 4장(`hero_close.jpg` 2732×1536 데스크톱 첫 화면, `hero_close_m.jpg` 750×876 폰 첫 화면 위쪽 띠, `cta_bg.jpg` 2400×1350, `og.jpg` 1200×630 글 포함)은 `tools/shoot_stills.py`가 헤드리스 Chromium(Playwright)으로 3D의 첫 프레임(tau 0.05, 카메라 흔들림 0)을 찍어 `#0B0D12` 위에 합성한 것이라 페이드 때 장면이 이어진다. 필드나 카메라·화면 배치를 바꾸면 다시 돌린다(`--check`를 붙이면 정지 그림과 3D 첫 프레임의 평균 픽셀차를 찍어 준다 — 2026-10-18 기준 데스크톱 1.2, 폰 1.1).
   JPEG 품질 66(점진 표시)으로 저장한다. 86일 때의 약 절반(첫 화면 데스크톱 301→153KB, 폰 89→46KB)이고 선수 부분을 원래 크기로 비교해도 차이가 보이지 않는다.
   첫 화면 그림은 head의 `<link rel="preload" as="image" media=…>`로 HTML을 읽자마자 받는다(1024px 이상 `hero_close.jpg`, 미만 `hero_close_m.jpg` — CSS의 1023px 분기와 같다). `--single` 빌드는 그림이 본문에 들어가므로 preload 줄을 뺀다.
 - 필드(2026-10-17): 종이 모형 같던 회색 판 대신 야간 중계 화면 느낌 — 잔디(깎은 줄무늬, 펜스 쪽으로 어두워짐)·흙 내야(투수판 중심 95ft 스킨, 4ft 안쪽 잔디 다이아몬드, 베이스·마운드·홈 주변 흙, 파울선 바깥 3ft 주로)·분필선(파울선·타석·포수석)·경고 트랙·노란 띠를 두른 외야 펜스·홈 뒤 45ft까지의 파울 지역. 전부 `src/spray-play.js`의 `paint()`가 캔버스에 한 번 그려 바닥 판의 텍스처(4px/ft)로 쓰고, 홈 주변 88ft는 같은 그림을 17px/ft로 그린 데칼을 덧씌워 근접 샷에서도 선이 또렷하다. 3D 마커·거리 원호·아웃 고리는 잉크색 대신 분필색.
 - 카메라 역할(2026-10-17): 첫 화면의 `<spray-play cam="close">`는 홈 뒤 근접 샷에 머물러 타자·포수·투수가 계속 크게 보이고(드래그 회전은 그대로), "필드" 칸(`cam` 없음 = `cycle`)만 투구 뒤 넓은 샷으로 빠져 차트가 쌓이는 걸 보여 준다.
+- 화면 배치(2026-10-18): 선수가 글·버튼에 가려지지 않게. 3D 요소는 페이지 CSS의 `--shift: x y`(렌즈 이동, 화면 비율, +는 장면을 오른쪽·위로)와 `--zoom`(렌즈 확대)을 크기가 바뀔 때마다 읽는다.
+  데스크톱 첫 화면은 `--shift: .2 .1`로 홈 플레이트를 글 오른쪽에 두고, 숫자 카드 3개는 글 아래 한 줄로 옮겼다. 폰·태블릿(1023px 이하) 첫 화면은 3D를 위쪽 띠(`clamp(340px, 54vh, 480px)`, `--zoom: 1.3; --shift: 0 .24`)로, 글·버튼·카드를 그 아래로 둔다. 폰 "필드" 칸은 `--shift: 0 .14`로 필드를 설명 바로 아래로 올렸다.
+  그 밖에: 숫자 띠의 칸 여백 규칙이 감싸는 `.wrap`에도 걸려 양옆 여백이 0이던 것(`.ticker .wrap > div`로 한정), "필드" 칸 아래 라벨을 본문 칸에 맞춤, 맨 아래 배경을 선수가 잘리지 않게(데스크톱 `center 78%`, 폰은 버튼 아래로), 코스별 타율 칸에 안타/타수 표시(김민준 15타석 — 칸마다 0~4타수라 .000·1.000이 많다; `js/sample.js` 고정 시드로 다시 계산해 페이지 숫자와 일치 확인), QR 태그 2×2, 한글 라벨의 넓은 자간 정리.
 - 글꼴은 Pretendard(jsDelivr 동적 서브셋 `<link>`). 외부 의존은 그것뿐이다.
 - 검토 과정의 다른 시안: `next/index.html`(A안 흰 배경 제품 랜딩), `next/hero-b.html`(B안 다크 테크), `next/index-c.html`(C안 정지 그림 버전). 레퍼런스 보드와 전후 비교는 `harness/clips/report/`(gitignore).
 - 아래 내용(3D 선수 제작, 동작, 장비, 옛 캔버스 변환 `unbundle.py`의 페이지 편집)은 그대로 유효한 기록이다. `unbundle.py`의 페이지 변환 부분은 이제 `legacy/landing.html`에만 쓰인다.
